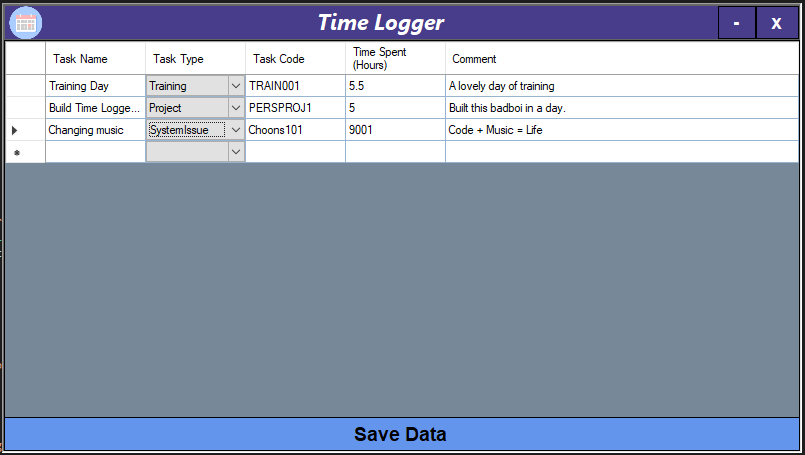
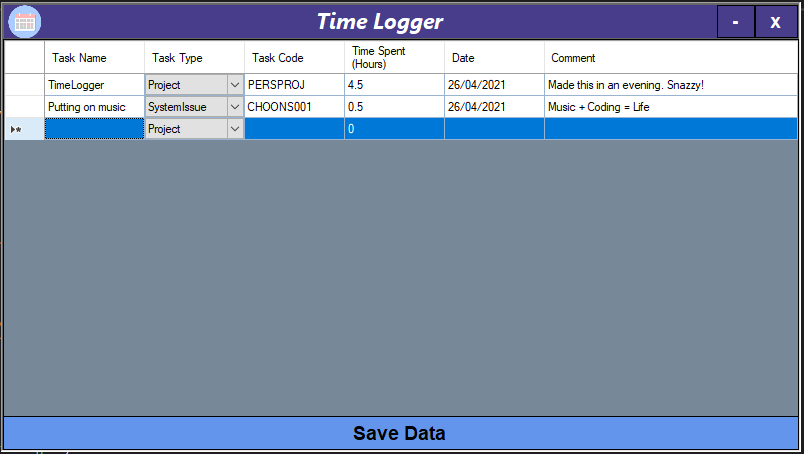
Added DateTime Column and updated Preview

Changed region(s): [[0.0, 0.0, 0.995, 0.9868], [0.4353, 0.9251, 0.5597, 0.9868]]

diff --git a/MainWindow.cs b/MainWindow.cs
@@ -15,7 +15,7 @@ namespace TimeLogger
     public partial class MainWindow : Form
     {
         BindingList<TimeEntry> timeEntries = new BindingList<TimeEntry>();
-
+        DateTimePicker dtp;
         public MainWindow()
         {
             InitializeComponent();
@@ -83,11 +83,62 @@ namespace TimeLogger
             });
             timeLoggerDataGridView.Columns.Add(new DataGridViewTextBoxColumn()
             {
+                Name = "Date",
+                DataPropertyName = "Date",
+                HeaderText = "Date",
+                ValueType = typeof(DateTime)
+            });
+            timeLoggerDataGridView.Columns.Add(new DataGridViewTextBoxColumn()
+            {
                 Name = "Comment",
                 DataPropertyName = "Notes",
                 HeaderText = "Comment",
                 AutoSizeMode = DataGridViewAutoSizeColumnMode.Fill
             });
+        }
+
+        private void TimeLoggerDataGridView_CellClick(object sender, DataGridViewCellEventArgs e)
+        {
+            if (e.ColumnIndex == -1) return;
+            // determine if click was on our date column
+            if (timeLoggerDataGridView.Columns[e.ColumnIndex].DataPropertyName == "Date")
+            {
+                if (e.RowIndex == -1) return;
+                // initialize DateTimePicker
+                dtp = new DateTimePicker();
+                dtp.Format = DateTimePickerFormat.Short;
+                dtp.Visible = true;
+                try
+                {
+                    dtp.Value = DateTime.Parse(timeLoggerDataGridView.CurrentCell?.Value?.ToString());
+                }
+                catch
+                {
+                    dtp.Value = DateTime.Now;
+                }
+
+                // set size and location
+                var rect = timeLoggerDataGridView.GetCellDisplayRectangle(e.ColumnIndex, e.RowIndex, true);
+                dtp.Size = new Size(rect.Width, rect.Height);
+                dtp.Location = new Point(rect.X, rect.Y);
+
+                // attach events
+                dtp.CloseUp += new EventHandler(DateTimePicker_CloseUp);
+                dtp.TextChanged += new EventHandler(DateTimePicker_OnTextChange);
+
+                timeLoggerDataGridView.Controls.Add(dtp);
+            }
+        }
+
+        private void DateTimePicker_OnTextChange(object sender, EventArgs e)
+        {
+            timeLoggerDataGridView.CurrentCell.Value = dtp.Text.ToString();
+        }
+
+        // on close of cell, hide dtp
+        void DateTimePicker_CloseUp(object sender, EventArgs e)
+        {
+            dtp.Visible = false;
         }
 
         private void SaveButton_Click(object sender, EventArgs e)

diff --git a/MainWindow.Designer.cs b/MainWindow.Designer.cs
@@ -69,6 +69,7 @@ namespace TimeLogger
             this.timeLoggerDataGridView.TabIndex = 1;
             this.timeLoggerDataGridView.CellValidating += new System.Windows.Forms.DataGridViewCellValidatingEventHandler(this.TimeLoggerDataGridView_CellValueChanged);
             this.timeLoggerDataGridView.CellValidated += new System.Windows.Forms.DataGridViewCellEventHandler(this.TimeLoggerDataGridView__CellValidated);
+            this.timeLoggerDataGridView.CellClick += new System.Windows.Forms.DataGridViewCellEventHandler(this.TimeLoggerDataGridView_CellClick);
             // 
             // headerPanel
             // 
@@ -84,7 +85,6 @@ namespace TimeLogger
             this.headerPanel.Name = "headerPanel";
             this.headerPanel.Size = new System.Drawing.Size(796, 35);
             this.headerPanel.TabIndex = 0;
-            this.headerPanel.MouseMove += new System.Windows.Forms.MouseEventHandler(this.HeaderPanel_MouseMove);
             // 
             // appTitle
             // 
@@ -97,6 +97,8 @@ namespace TimeLogger
             this.appTitle.TabIndex = 3;
             this.appTitle.Text = "Time Logger";
             this.appTitle.TextAlign = System.Drawing.ContentAlignment.MiddleCenter;
+            this.appTitle.MouseMove += new System.Windows.Forms.MouseEventHandler(this.HeaderPanel_MouseMove);
+
             // 
             // pictureBox1
             // 

diff --git a/TimeEntry.cs b/TimeEntry.cs
@@ -22,6 +22,7 @@ namespace TimeLogger
         public TimeEntryTask TaskType { get; set; }
         public string TaskCode { get; set; }
         public double TimeSpent { get; set; }
+        public DateTime? Date { get; set; } = new DateTime();
         public string Notes { get; set; }
 
     }
